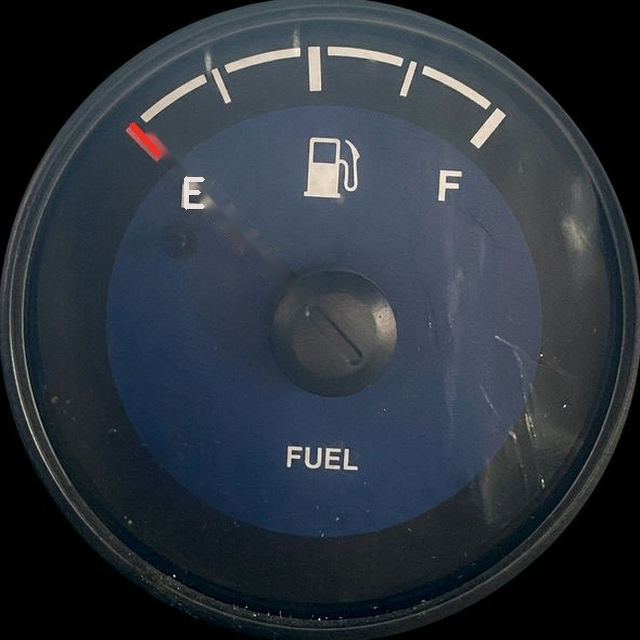
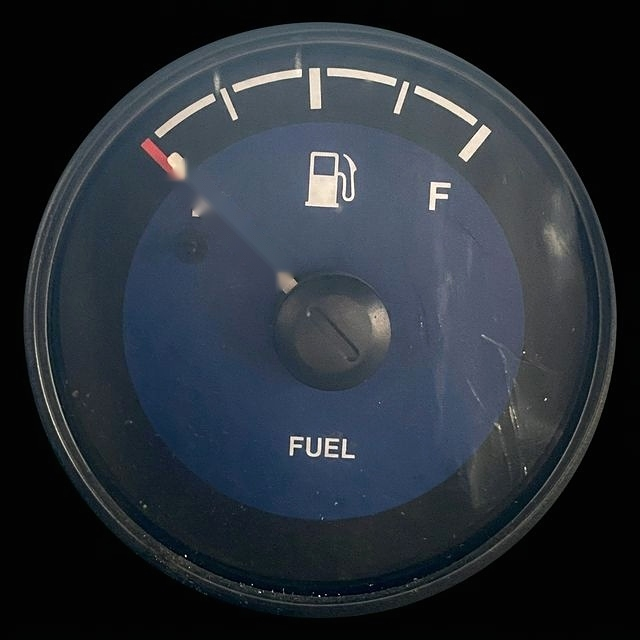
fix(ui): restauration fidele photo jauge carburant ta.jpeg et suppression rondelle grise

diff --git a/lib/ui/fuel_gauge_widget.dart b/lib/ui/fuel_gauge_widget.dart
@@ -35,8 +35,8 @@ class FuelGaugeWidget extends StatelessWidget {
       decoration: BoxDecoration(
         shape: BoxShape.circle,
         border: Border.all(
-          color: isDraggable ? Colors.orangeAccent.withOpacity(0.6) : Colors.white24,
-          width: isDraggable ? 2.5 : 1.5,
+          color: isDraggable ? Colors.orangeAccent.withOpacity(0.7) : Colors.white12,
+          width: isDraggable ? 2.5 : 1.0,
         ),
         boxShadow: showGlow
             ? [
@@ -74,11 +74,11 @@ class FuelGaugeWidget extends StatelessWidget {
                 needleStartWidth: (1.2 * scale).clamp(1.0, 2.0),
                 needleEndWidth: (5.5 * scale).clamp(2.5, 5.5),
                 needleLength: 0.82,
-                knobStyle: KnobStyle(
-                  color: const Color(0xFF1A1A1A),
-                  knobRadius: 0.08,
-                  borderColor: const Color(0xFF444444),
-                  borderWidth: (1.5 * scale).clamp(1.0, 2.0),
+                knobStyle: const KnobStyle(
+                  color: Color(0xFF141414),
+                  knobRadius: 0.042,
+                  borderWidth: 0,
+                  borderColor: Colors.transparent,
                 ),
                 enableAnimation: !isDraggable,
                 animationDuration: 1000,
